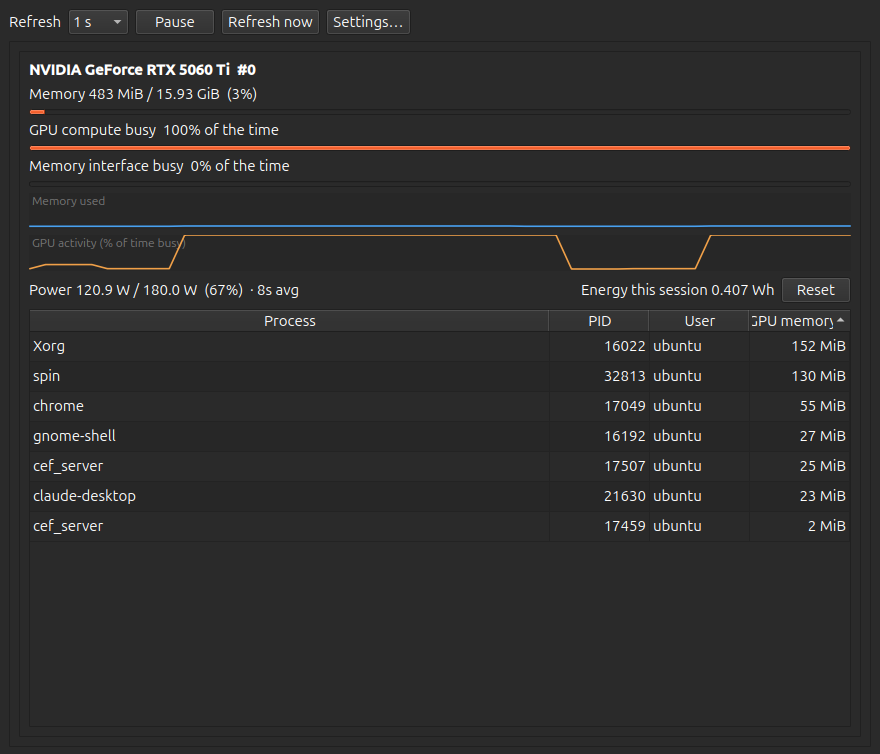
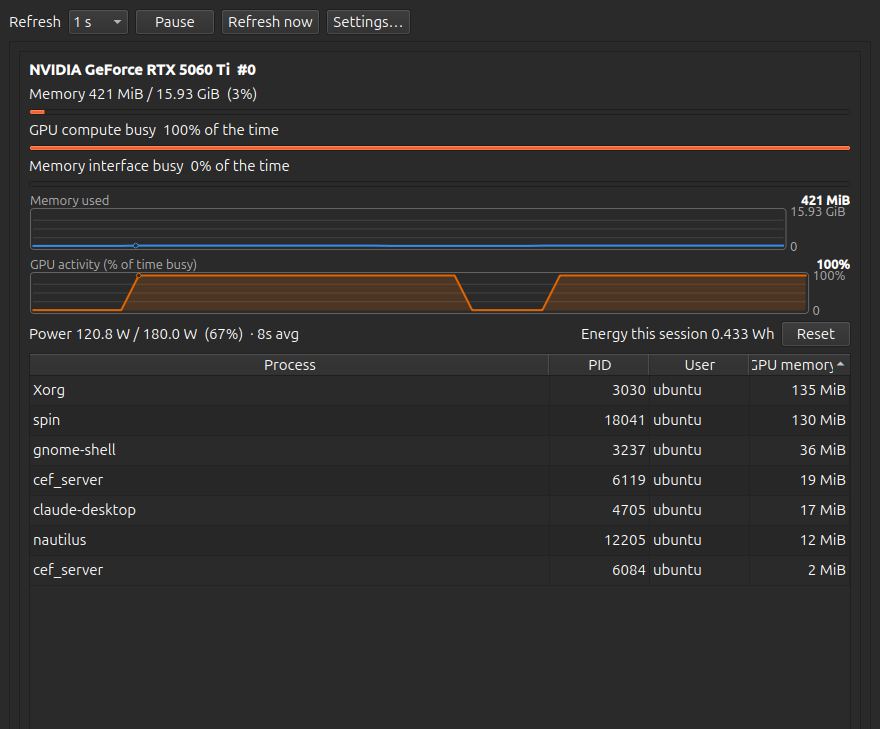
docs: new screenshot, and explain downloading and running the AppImage
Screenshot retaken against the real RTX 5060 Ti (driver 580.159.03) with a CUDA kernel
cycled on and off, so the activity graph shows a plateau, a dip and a second plateau
rather than a flat block — and captured while the kernel was still running, so the
numbers, the process table and the graph all agree that load is on. The previous
screenshot showed the greyed-out graphs this branch fixes, including the activity label
with the series struck through it.

Rewrites the AppImage instructions as numbered download / chmod / run steps. The chmod
step now explains *why* it is needed instead of just listing it: a file arriving over
HTTP has its execute bit cleared, and skipping it produces "Permission denied" from the
shell, or nothing at all from a file manager — neither of which mentions permissions,
which is why it trips people up.

Documents the download URL with an explicit version tag and says why: every release so
far is marked pre-release, and GitHub's /releases/latest/ redirect skips those, so a
"latest" URL currently returns 404 rather than the newest build. Verified.

Also states what the bundle needs from the host (x86-64, glibc 2.35+, an installed NVIDIA
driver) and why it deliberately carries no NVIDIA libraries, and brings the trend-graph
feature description up to date with the redesign.

diff --git a/README.md b/README.md
@@ -7,8 +7,9 @@ every second without ever blocking its own interface.
 
 ![GPUM monitoring an RTX 5060 Ti under load](docs/media/gpum-screenshot.png)
 
-*A real capture, not a mockup: a CUDA kernel was started and stopped twice while the window
-sampled, which is the rise and fall visible in the activity graph.*
+*A real capture, not a mockup: a CUDA kernel was started, stopped, and started again while the
+window sampled — that is the plateau, dip, and second plateau in the activity graph, with the
+kernel (`spin`) still running and holding compute at 100% at the moment of capture.*
 
 ## Features
 
@@ -26,7 +27,11 @@ sampled, which is the rise and fall visible in the activity graph.*
 
 **Trend graphs** are fixed to a 0–100 scale for percentages, so an idle GPU's 0–3% noise stays
 at the bottom instead of being stretched to full height by auto-scaling — and two GPUs stay
-comparable. An unreadable stretch is drawn as a **break in the line**, never a drop to zero.
+comparable. An unreadable stretch is drawn as a **break in the line**, never a drop to zero. Each
+graph states its own ceiling and current value, so the two are never mistaken for the same chart:
+memory is scaled to the card's capacity, activity to a flat 100%. Line and label colours are
+checked against the background they land on and corrected if they fall short, in light themes and
+dark ones alike.
 
 **Across the window**
 
@@ -35,21 +40,50 @@ comparable. An unreadable stretch is drawn as a **break in the line**, never a d
 - Suspend and resume leave a gap in history rather than a fabricated straight line.
 - Optional tray icon and autostart.
 
-## Install
+## Download and run
 
-Two ways, whichever suits you.
+One file, 50 MB, carrying its own Python and Qt. No install step, no Python on your machine, no
+compiler, no root.
 
-**Self-contained download** — no Python needed:
+**1. Download it.** Grab `GPUM-0.1.0-x86_64.AppImage` from the
+[releases page](https://github.com/rs-r2d2/gpum/releases), or from a shell:
+
+```bash
+curl -L -O https://github.com/rs-r2d2/gpum/releases/download/v0.1.0-alpha.2/GPUM-0.1.0-x86_64.AppImage
+```
+
+Note the explicit version tag. Every release so far is marked *pre-release*, and GitHub's
+`/releases/latest/` redirect deliberately skips pre-releases — so a `latest` URL returns **404**
+here rather than the newest build. Check the releases page for the current tag.
+
+**2. Make it executable.**
 
 ```bash
 chmod +x GPUM-0.1.0-x86_64.AppImage
+```
+
+**This step is required, not a formality.** A file that arrives over HTTP has its execute bit
+cleared, because a browser or `curl` has no way to know you intend to *run* what you just
+fetched — so the kernel refuses to launch it until you say so. Skip this and the file is inert:
+the shell answers `bash: ./GPUM-0.1.0-x86_64.AppImage: Permission denied`, and double-clicking it
+in a file manager either opens an archive viewer or does nothing at all. Neither failure mentions
+permissions, which is why this trips people up.
+
+**3. Run it.**
+
+```bash
 ./GPUM-0.1.0-x86_64.AppImage
 ```
 
-50 MB, carries its own Python and Qt, runs on Ubuntu 22.04 and newer. The only prerequisite is
-your NVIDIA driver.
+It takes the same flags as the packaged command, so `./GPUM-0.1.0-x86_64.AppImage --backend fake`
+works if you want to look around without a GPU.
 
-**Python package**:
+**What it needs from your machine**: 64-bit x86 Linux, glibc 2.35 or newer (Ubuntu 22.04 and up),
+and your NVIDIA driver already installed. The bundle deliberately does **not** carry NVIDIA's
+libraries — those are version-locked to your running kernel module, so a bundled copy would
+either fail to initialise or, worse, report a build machine's numbers as if they were yours.
+
+## Install as a Python package
 
 ```bash
 pip install -e ".[nvidia]"        # recommended
@@ -59,8 +93,6 @@ gpum --install-desktop-entry      # optional: add it to your application menu
 
 Python 3.11+. No compiler needed. Both forms share the same settings file, so you can switch
 between them freely.
-
-## Run
 
 ```bash
 gpum                                        # or: python -m gpum
@@ -81,10 +113,13 @@ python -m gpum --list-scenarios             # what the fake backend can simulate
 
 ## Support
 
-See [docs/capability-matrix.md](docs/capability-matrix.md) for exactly what works on which
-vendor and platform. In short: **this release covers NVIDIA on Linux and Windows**, with
-per-process memory unavailable on Windows under the WDDM driver model (a driver limitation,
-reported honestly). AMD and Intel are registered stubs. macOS is deferred.
+See [docs/capability-matrix.md](docs/capability-matrix.md) for exactly what works. In short:
+**Linux only, NVIDIA only.** AMD and Intel are registered stubs that report themselves as
+unimplemented rather than pretending.
+
+Windows and macOS are not supported and not planned. GPUM is vendor-agnostic by design but
+single-platform by scope — the backend abstraction is real and load-bearing, the platform
+ambition was dropped (constitution 2.0.0).
 
 ## Development
 
